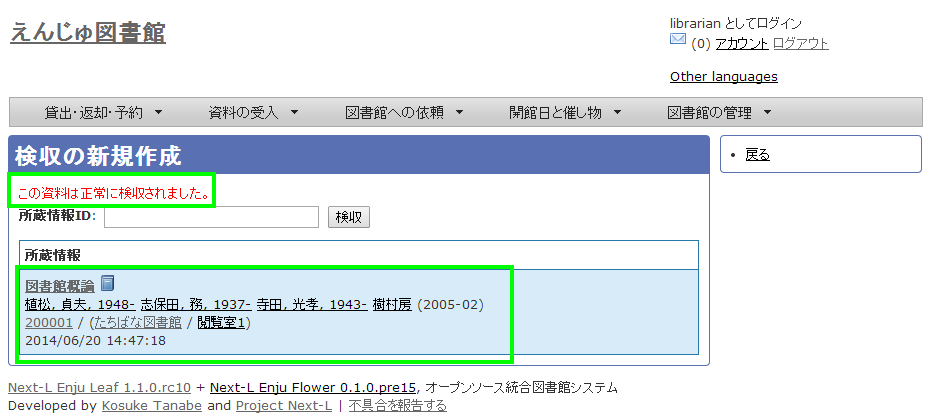
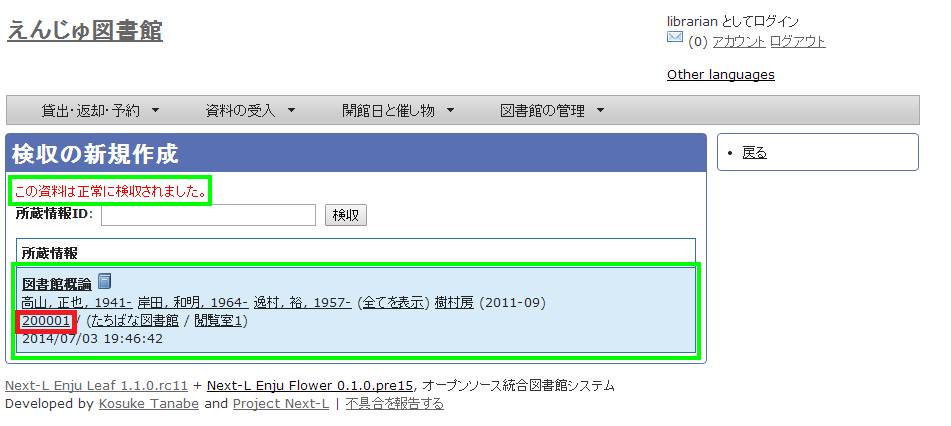
運用マニュアルの研修機能をひととおり修正

Changed region(s): [[0.0, 0.1551, 0.9779, 0.9928], [0.0, 0.031, 0.1834, 0.1241], [0.7028, 0.031, 0.8862, 0.1241]]

diff --git a/_includes/enju_operation/accept_item.md b/_includes/enju_operation/accept_item.md
@@ -4,13 +4,12 @@
 ------------------------
 
 図書を検収する機能です。 
-検収すると、該当資料の以下の所蔵情報が変更になり、
-検索結果一覧で[（所蔵）]リンクや[予約]リンクが表示されるようになり、
-利用者が当該資料が利用可能なことがわかるようになります。
+検収すると、該当資料の以下の所蔵情報が変更になります。
 
 * [貸出状態]が「作業中」から「在架（利用可能）」に変更される 
-* [利用制限]を「貸出不可」から「通常期間貸出」に変更される
-* [検収日]が記録される（システムで自動的に[検収]ボタンをクリックした日時を記録します）
+* [利用制限]が「貸出不可」から「通常期間貸出」に変更される
+* [検収時刻]が記録される（システムで自動的に[検収]ボタンをクリックした日時を記録します）
+
 
 書誌情報や所蔵情報を作業中のステータスとしていったん登録したのちに、
 複数の資料をまとめて利用可能なステータスに変更にする機能です。
@@ -22,8 +21,13 @@
    ![システムの設定](assets/images/image_operation_accept.png)
 2. ［所蔵情報ID］を入力し（所蔵情報IDのバーコードをスキャンなど）、[検収]ボタンをクリックします。  
    ![所蔵情報IDの入力と検収](assets/images/image_operation_accept_1.png)
-3. 「この資料は正常に検収されました」と表示され検収が完了します。 
-   ![削除したい図書の所蔵情報ID](assets/images/image_operation_accept_3.png)
-4. 【Memo】検索結果一覧で「（所蔵）」や[予約]リンクが表示されるようになります。
+3. 「この資料は正常に検収されました」と表示され検収が完了します。2 を繰り返すことで、続けて他の資料を検収できます。詳しい内容を確認したい場合は、[所蔵情報ID]のリンクをクリックします。
+   ![検収結果](assets/images/image_operation_accept_3.png)
+4. [貸出情報]、[利用制限]、[検収時刻]が変わったことを確認できます。 
+   ![所蔵情報の確認](assets/images/image_operation_accept_4.png)
+
+<div class="alert alert-info" markdown="1">
+【Memo】利用者の検索結果一覧で「（所蔵）」や[予約]リンク（User権限以上のみ）が表示されるようになります。
    ![検索結果一覧](assets/images/image_operation_accept_5.png)
+</div>
 
